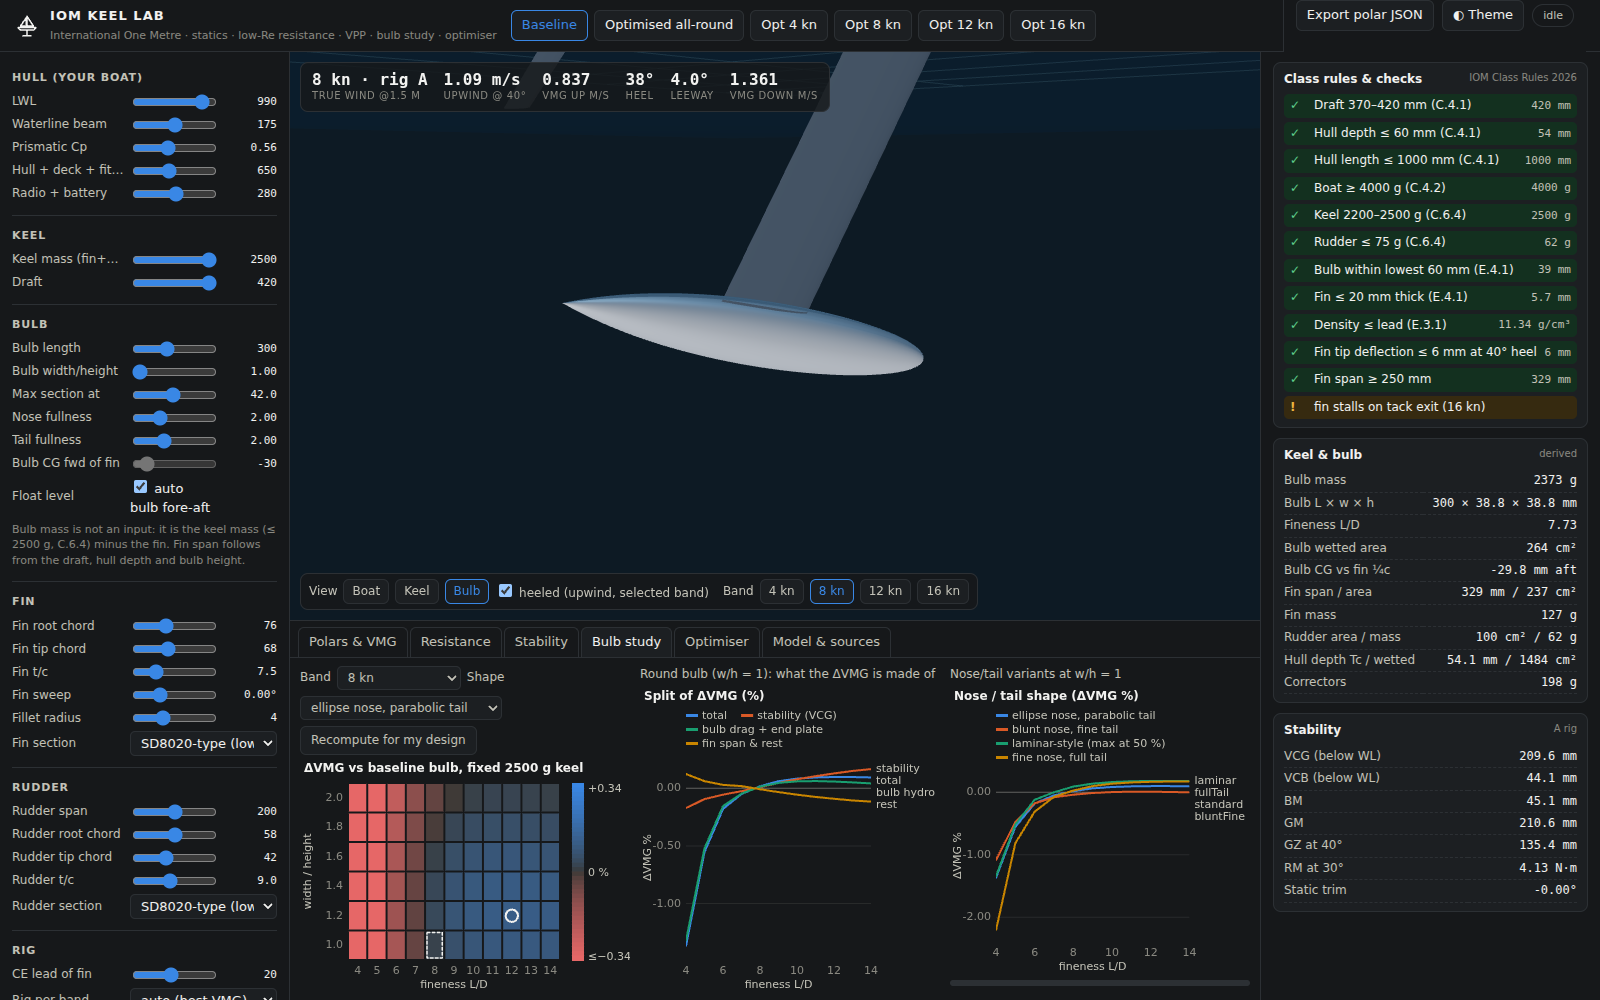
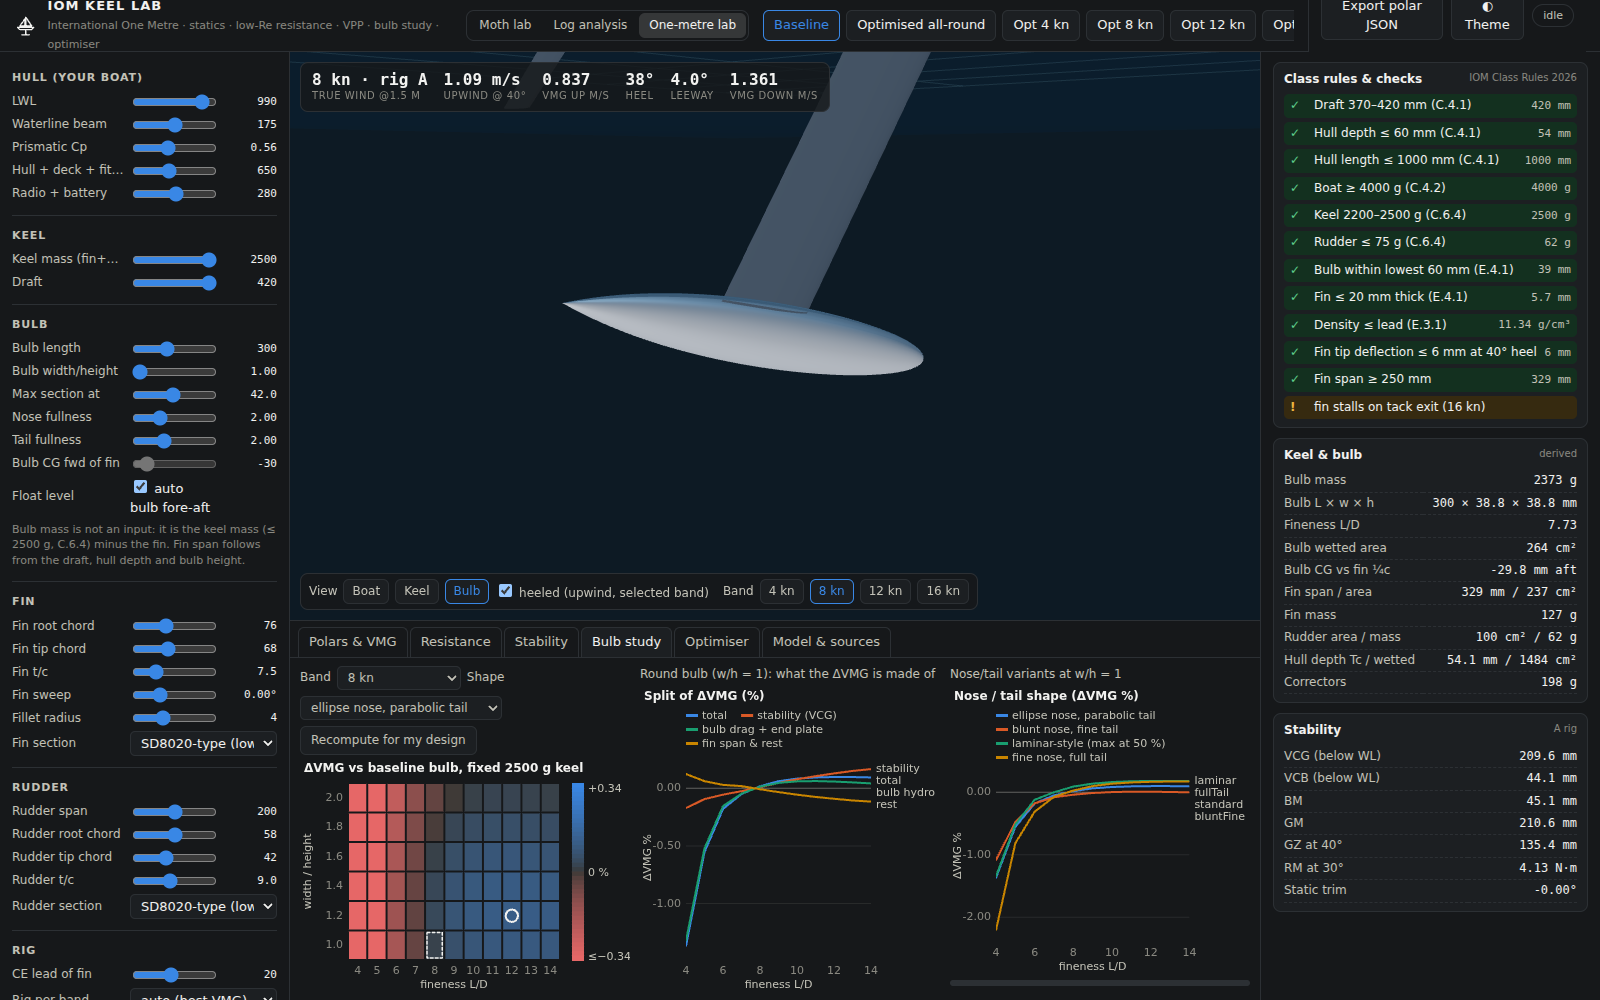
Integrate IOM lab: build input, nav; export panels (copy/download) instead of blocked downloads; paste-polar import incl. IOM multi-band polars
Claude-Session: https://claude.ai/code/session_014NQVz7znVCFCKwRgUQuW6p

Changed region(s): [[0.0, 0.0, 0.9375, 0.062]]

diff --git a/src/analysis/app.js b/src/analysis/app.js
@@ -1,6 +1,7 @@
 // Sail log analysis page: loading, settings, rendering. Analysis logic lives in the DOM-free
 // modules (parse, track, wind, segment, metrics, ab, pipeline); this file only wires the UI.
 import { parseLog } from './parse.js';
+import { showExport } from '../ui/exportDialog.js';
 import { buildTrack } from './track.js';
 import { analyze, defaultSettings } from './pipeline.js';
 import { PolarModel, parsePolarJSON } from './model.js';
@@ -445,12 +446,7 @@ function renderAB() {
 
 // ------------------------------------------------------------------ helpers & wiring
 function esc(s) { return String(s ?? '').replace(/[&<>"]/g, (c) => ({ '&': '&amp;', '<': '&lt;', '>': '&gt;', '"': '&quot;' }[c])); }
-function download(name, text, type) {
-  const a = document.createElement('a');
-  a.href = URL.createObjectURL(new Blob([text], { type }));
-  a.download = name; document.body.appendChild(a); a.click(); a.remove();
-  setTimeout(() => URL.revokeObjectURL(a.href), 2000);
-}
+function download(name, text, type) { showExport(name, name, text, type); }
 function switchTab(tab) {
   S.tab = tab;
   $$('.tabs button').forEach((b) => b.classList.toggle('on', b.dataset.tab === tab));
@@ -486,7 +482,7 @@ function wire() {
   $('#btnJSON').addEventListener('click', () => S.res && download(S.file.replace(/\.[^.]+$/, '') + '-summary.json', summaryJSON(S.res, S.track, S.file), 'application/json'));
   // settings
   $$('.side input, .side select, .side textarea').forEach((el) => {
-    if (el.id === 'modelSel' || el.id === 'polarInput') return;
+    if (el.id === 'modelSel' || el.id === 'polarInput' || el.id === 'polarPaste') return;
     el.addEventListener(el.tagName === 'TEXTAREA' || el.type === 'number' ? 'input' : 'change', () => {
       if (!S.settings) return;
       if (el.id === 'twd' && el.value !== '') $('#twdMode').value = 'manual';
@@ -495,7 +491,9 @@ function wire() {
   });
   $('#modelSel').addEventListener('change', async (e) => {
     const v = e.target.value;
+    $('#polarPasteBox').hidden = v !== 'paste';
     if (v === 'import') { $('#polarInput').click(); return; }
+    if (v === 'paste') { $('#polarPaste').focus(); return; }
     S.model.kind = v;
     if (v === 'none') setModelHint('Polar table JSON: {"tws": 4, "points": [{"twa": 45, "speed": 1.0}], "unit": "m/s"}');
     if (S.settings) run();
@@ -504,13 +502,17 @@ function wire() {
   $('#polarInput').addEventListener('change', async (e) => {
     const f = e.target.files[0]; e.target.value = '';
     if (!f) { $('#modelSel').value = S.model.kind; return; }
+    usePolar(await f.text(), f.name.replace(/\.json$/i, ''));
+  });
+  $('#polarUse').addEventListener('click', () => usePolar($('#polarPaste').value, 'Pasted polar'));
+  function usePolar(text, name) {
     try {
-      S.model.imported = parsePolarJSON(await f.text(), f.name.replace(/\.json$/i, ''));
+      S.model.imported = parsePolarJSON(text, name);
       S.model.kind = 'import';
       setModelHint(`${S.model.imported.name}: ${S.model.imported.tables.length} table(s), TWS ${S.model.imported.tables.map((t) => fmtS(t.tws)).join(', ')} ${unitLabel()}`);
       if (S.settings) run();
-    } catch (err) { setModelHint(`Could not read polar: ${err.message}`); $('#modelSel').value = S.model.kind; }
-  });
+    } catch (err) { setModelHint(`Could not read polar: ${err.message}`); if (S.model.kind !== 'import') $('#modelSel').value = S.model.kind === 'none' ? 'paste' : S.model.kind; }
+  }
   $('#sideToggle').addEventListener('click', () => { const s = $('#side'); s.classList.toggle('collapsed'); $('#sideToggle').setAttribute('aria-expanded', String(!s.classList.contains('collapsed'))); });
   // drag and drop
   let depth = 0;

diff --git a/src/ui/exportDialog.js b/src/ui/exportDialog.js
@@ -1,0 +1,56 @@
+// Export panel: shows the exported text with Copy and Download. Downloads are blocked inside
+// published artifact pages, so Copy (clipboard or manual select) is the path that always works.
+let dlg;
+
+function build() {
+  dlg = document.createElement('dialog');
+  dlg.className = 'export-dialog';
+  dlg.innerHTML = `
+    <form method="dialog" class="xd-inner">
+      <div class="xd-head"><b id="xdTitle"></b><button value="close" aria-label="Close">✕</button></div>
+      <textarea id="xdText" readonly spellcheck="false" rows="14"></textarea>
+      <div class="xd-actions">
+        <button type="button" id="xdCopy" class="primary">Copy</button>
+        <button type="button" id="xdSave">Download</button>
+        <span id="xdMsg" role="status"></span>
+      </div>
+    </form>`;
+  const css = document.createElement('style');
+  css.textContent = `
+    .export-dialog { border: 1px solid var(--line, #888); border-radius: 10px; padding: 0; width: min(720px, calc(100vw - 32px));
+      background: var(--panel, #fff); color: var(--ink, #111); }
+    .export-dialog::backdrop { background: rgb(0 0 0 / 0.45); }
+    .export-dialog .xd-inner { display: grid; gap: 10px; padding: 14px 16px; margin: 0; }
+    .export-dialog .xd-head { display: flex; justify-content: space-between; align-items: center; gap: 12px; }
+    .export-dialog textarea { width: 100%; box-sizing: border-box; font: 12px/1.4 ui-monospace, "JetBrains Mono", Menlo, monospace;
+      background: var(--panel-2, var(--bg, #f5f5f5)); color: var(--ink, #111); border: 1px solid var(--line, #888); border-radius: 6px; padding: 8px; resize: vertical; }
+    .export-dialog .xd-actions { display: flex; gap: 8px; align-items: center; flex-wrap: wrap; }
+    .export-dialog #xdMsg { color: var(--ink-2, #555); font-size: 12px; }`;
+  document.head.appendChild(css);
+  document.body.appendChild(dlg);
+  dlg.querySelector('#xdCopy').addEventListener('click', async () => {
+    const ta = dlg.querySelector('#xdText');
+    try { await navigator.clipboard.writeText(ta.value); say('Copied to the clipboard.'); } catch {
+      ta.focus(); ta.select(); say('Selected: press Ctrl/⌘+C to copy.');
+    }
+  });
+}
+
+function say(t) { dlg.querySelector('#xdMsg').textContent = t; }
+
+/** Show `text` for copying, with a best-effort download named `name`. */
+export function showExport(title, name, text, type = 'text/plain') {
+  if (!dlg) build();
+  dlg.querySelector('#xdTitle').textContent = title;
+  dlg.querySelector('#xdText').value = text;
+  say(`${(text.length / 1024).toFixed(1)} kB`);
+  dlg.querySelector('#xdSave').onclick = () => {
+    try {
+      const a = document.createElement('a');
+      a.href = URL.createObjectURL(new Blob([text], { type }));
+      a.download = name; document.body.appendChild(a); a.click(); a.remove();
+      say(`Download started (${name}). If nothing happens, this viewer blocks downloads: use Copy.`);
+    } catch { say('This viewer blocks downloads: use Copy.'); }
+  };
+  if (typeof dlg.showModal === 'function') dlg.showModal(); else dlg.setAttribute('open', '');
+}

diff --git a/src/iom/ui/styles.css b/src/iom/ui/styles.css
@@ -48,12 +48,14 @@ input[type=range] { accent-color: var(--accent); width: 100%; }
 .mono, output, td.num { font-family: 'JetBrains Mono', ui-monospace, monospace; font-variant-numeric: tabular-nums; }
 
 .top { height: 52px; display: flex; align-items: center; gap: 14px; padding: 0 14px; background: var(--panel); border-bottom: 1px solid var(--line); }
-.brand { display: flex; align-items: center; gap: 10px; }
+.brand { display: flex; align-items: center; gap: 10px; flex: none; }
+.brand span { white-space: nowrap; }
 .brand b { letter-spacing: 0.08em; font-size: 13px; display: block; }
 .brand span { color: var(--ink-3); font-size: 11px; }
-.top .presets { display: flex; gap: 6px; flex-wrap: nowrap; overflow-x: auto; min-width: 0; }
+.top .presets { display: flex; gap: 6px; flex-wrap: nowrap; overflow-x: auto; min-width: 0; flex: 1 1 auto; scrollbar-width: thin; }
 .top .presets button { white-space: nowrap; }
-.top .right { margin-left: auto; display: flex; gap: 8px; align-items: center; }
+.top .right { margin-left: auto; display: flex; gap: 8px; align-items: center; flex: none; }
+.top .right button { white-space: nowrap; }
 .pill { border: 1px solid var(--line); border-radius: 20px; padding: 3px 10px; font-size: 11px; color: var(--ink-2); white-space: nowrap; }
 .pill.busy { color: var(--accent); border-color: var(--accent); }
 
@@ -137,3 +139,9 @@ table.data td { white-space: nowrap; text-align: right; padding: 3px 6px; border
   .top .right { margin-left: 0; }
   .brand span { display: none; }
 }
+
+/* cross-page navigation */
+.pages { display: flex; gap: 2px; padding: 2px; border: 1px solid var(--line); border-radius: 8px; flex: none; }
+.pages a { padding: 4px 10px; border-radius: 6px; font-size: 12px; color: var(--ink-2); text-decoration: none; white-space: nowrap; }
+.pages a:hover { color: var(--ink); background: color-mix(in srgb, var(--ink) 8%, transparent); }
+.pages a.on { color: var(--ink); background: color-mix(in srgb, var(--ink) 14%, transparent); }

diff --git a/src/iom/ui/main.js b/src/iom/ui/main.js
@@ -1,5 +1,6 @@
 // IOM Keel Lab page: controls, 3-D view, charts; physics in a Web Worker.
 import { DEFAULT_DESIGN, PARAMS, SECTIONS, SECTION_LABELS, clone } from '../physics/design.js';
+import { showExport } from '../../ui/exportDialog.js';
 import { computeStatics } from '../physics/statics.js';
 import { checkRules } from '../physics/rules.js';
 import { VARS } from '../physics/objective.js';
@@ -323,9 +324,7 @@ $('exportPolar').onclick = () => {
   const mk = (b) => ({ tws: +(b.tws * KNOT).toFixed(4), tws_kn: b.tws, zRef_m: state.design.env.zRef, rig: b.rig, points: b.polar.map((p) => ({ twa: p.twa, speed: +p.V.toFixed(4) })), vmg: { up: { twa: +b.up.twa.toFixed(1), speed: +b.up.V.toFixed(4), vmg: +b.up.vmg.toFixed(4) }, down: { twa: +b.down.twa.toFixed(1), speed: +b.down.V.toFixed(4), vmg: +b.down.vmg.toFixed(4) } } });
   const sel = r.bands[state.band];
   const doc = { format: 'iom-polar v1', source: 'IOM Keel Lab VPP', design: state.design.name, units: { tws: 'm/s', speed: 'm/s', twa: 'deg' }, ...mk(sel), bands: r.bands.map(mk) };
-  const blob = new Blob([JSON.stringify(doc, null, 1)], { type: 'application/json' });
-  const a = document.createElement('a'); a.href = URL.createObjectURL(blob); a.download = `iom-polar-${sel.tws}kn.json`; a.click();
-  setTimeout(() => URL.revokeObjectURL(a.href), 2000);
+  showExport(`Polar, ${sel.tws} kn (paste into Log analysis → Model overlay → polar table)`, `iom-polar-${sel.tws}kn.json`, JSON.stringify(doc, null, 1), 'application/json');
 };
 
 // ------------------------------------------------------------------ tabs, views, bands

diff --git a/iom.html b/iom.html
@@ -13,11 +13,12 @@
   <header class="top">
     <div class="brand">
       <svg viewBox="0 0 32 32" width="26" height="26" aria-hidden="true"><path d="M5 18h22l-3 3H8zM16 18V4l8 12H16M15 18V6L8 16h7M16 21v7M11 28h10" stroke="currentColor" stroke-width="1.8" fill="none" stroke-linejoin="round" stroke-linecap="round"/></svg>
-      <div><b>IOM KEEL LAB</b><span>International One Metre · statics · low-Re resistance · VPP · bulb study · optimiser</span></div>
+      <div><b>IOM KEEL LAB</b><span>International One Metre · VPP · bulb study</span></div>
     </div>
+    <nav class="pages" aria-label="Pages"><a data-page="index" href="./index.html">Moth lab</a><a data-page="analysis" href="./analysis.html">Log analysis</a><a data-page="iom" href="./iom.html" class="on" aria-current="page">One-metre lab</a></nav>
     <div class="presets" id="presets"></div>
     <div class="right">
-      <button id="exportPolar" title="Download the polar of the selected band as JSON {tws, points:[{twa, speed}]}">Export polar JSON</button>
+      <button id="exportPolar" title="Polar of the selected band as JSON {tws, points:[{twa, speed}]}, to copy into Log analysis">Export polar</button>
       <button id="theme" title="Toggle light / dark">◐ Theme</button>
       <span id="busy" class="pill">idle</span>
     </div>

diff --git a/analysis.html b/analysis.html
@@ -73,8 +73,13 @@
         <section class="group" data-g="model">
           <h4>Model overlay</h4>
           <div class="ctl"><label for="modelSel">Model</label>
-            <select id="modelSel"><option value="none">none</option><option value="moth">Moth VPP (MothModel)</option><option value="import">imported polar…</option></select></div>
+            <select id="modelSel"><option value="none">none</option><option value="moth">Moth VPP (MothModel)</option><option value="import">polar from file…</option><option value="paste">paste polar…</option></select></div>
           <input id="polarInput" type="file" accept=".json,application/json" hidden />
+          <div id="polarPasteBox" class="paste-box" hidden>
+            <label for="polarPaste">Paste polar JSON (for example from the One-metre lab’s Export polar)</label>
+            <textarea id="polarPaste" rows="4" spellcheck="false" placeholder='{"tws": 4, "points": [{"twa": 45, "speed": 1.0}]}'></textarea>
+            <button id="polarUse" type="button">Use pasted polar</button>
+          </div>
           <p class="hint" id="modelHint">Polar table JSON: {"tws": 4, "points": [{"twa": 45, "speed": 1.0}], "unit": "m/s"}</p>
         </section>
         <section class="group" data-g="ab">

diff --git a/src/analysis/analysis.css b/src/analysis/analysis.css
@@ -206,3 +206,8 @@ td.dim { color: var(--ink-3); }
 .pages a { padding: 4px 10px; border-radius: 6px; font-size: 12px; color: var(--ink-2); text-decoration: none; white-space: nowrap; }
 .pages a:hover { color: var(--ink); background: color-mix(in srgb, var(--ink) 8%, transparent); }
 .pages a.on { color: var(--ink); background: color-mix(in srgb, var(--ink) 14%, transparent); }
+
+.paste-box { display: grid; gap: 6px; margin-top: 6px; }
+.paste-box label { font-size: 11.5px; color: var(--ink-2); }
+.paste-box textarea { width: 100%; box-sizing: border-box; font: 11.5px/1.35 ui-monospace, Menlo, monospace; background: var(--panel-2); color: var(--ink); border: 1px solid var(--line); border-radius: 6px; padding: 6px; resize: vertical; }
+.paste-box button { justify-self: start; }

diff --git a/src/analysis/model.js b/src/analysis/model.js
@@ -72,7 +72,7 @@ export class PolarModel {
 export function parsePolarJSON(obj, name = 'Imported polar') {
   if (typeof obj === 'string') obj = JSON.parse(obj);
   const unit = obj.unit || (Array.isArray(obj) ? obj[0]?.unit : null) || 'm/s';
-  const list = Array.isArray(obj) ? obj : Array.isArray(obj.tables) ? obj.tables : [obj];
+  const list = Array.isArray(obj) ? obj : Array.isArray(obj.tables) ? obj.tables : Array.isArray(obj.bands) ? obj.bands : [obj]; // bands: IOM Keel Lab export
   const tables = list.map((t) => {
     const u = t.unit || unit;
     const f = /kn|kt/i.test(u) ? KN : 1;

diff --git a/vite.config.js b/vite.config.js
@@ -3,7 +3,7 @@ export default defineConfig({
   base: './',
   build: {
     target: 'esnext',
-    rollupOptions: { input: { index: 'index.html', analysis: 'analysis.html' } },
+    rollupOptions: { input: { index: 'index.html', analysis: 'analysis.html', iom: 'iom.html' } },
   },
   worker: { format: 'es' },
   optimizeDeps: { esbuildOptions: { target: 'esnext' } },
